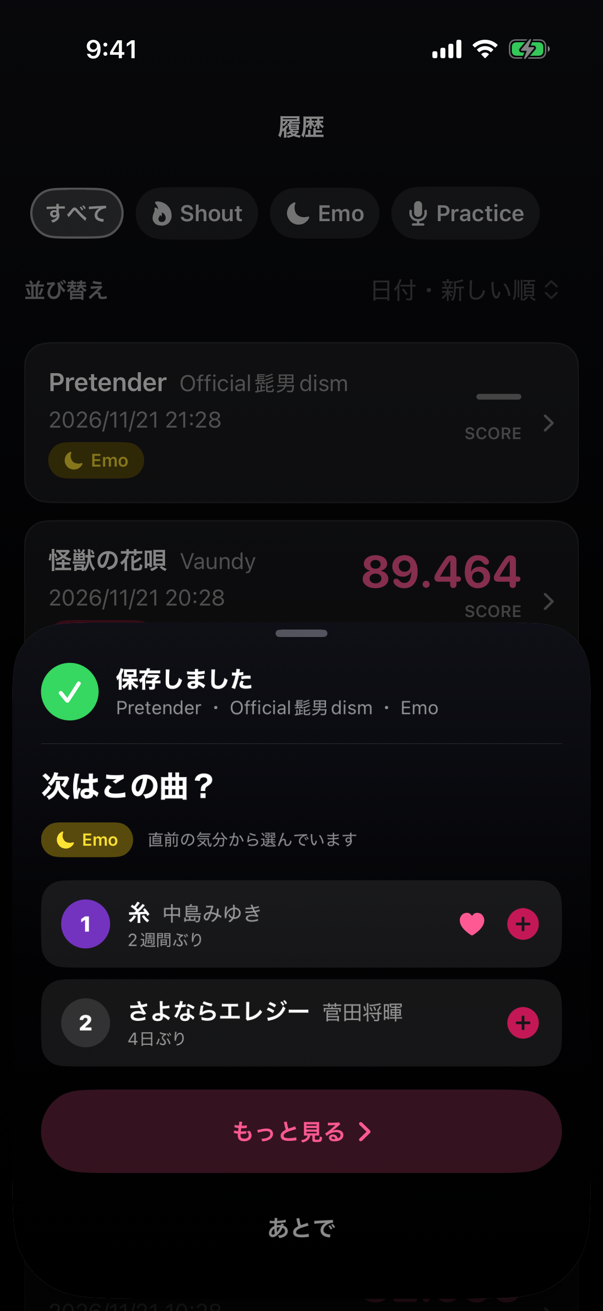
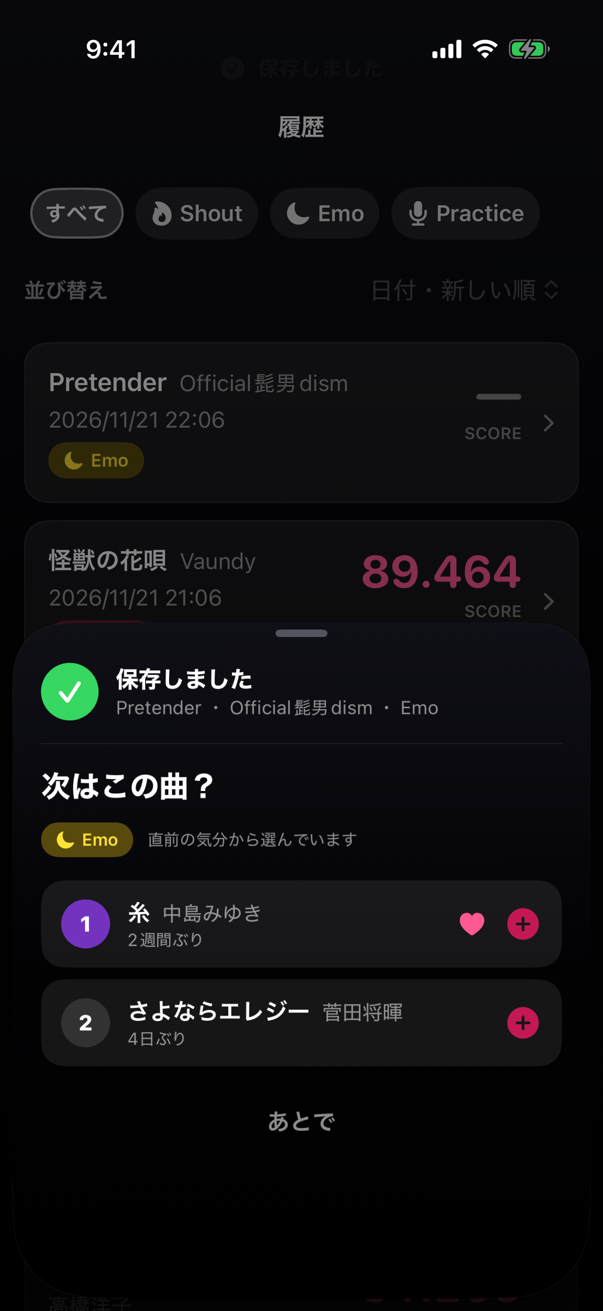
docs: タブを移さないことを ADR と文書に書き、画像を撮り直す

Changed region(s): [[0.0597, 0.8238, 0.9552, 0.9458], [0.2985, 0.4272, 0.3582, 0.4577], [0.2985, 0.3051, 0.3582, 0.3356]]

diff --git a/docs/adr/0070-stay-on-tab-after-save.md b/docs/adr/0070-stay-on-tab-after-save.md
@@ -1,0 +1,58 @@
+# 0070. 保存のあとも、ボタンを押したあとも、アプリが勝手にタブを移さない
+
+- 2026-11-21 提案 ／ 2026-11-21 承認（[0032](0032-move-to-history-after-dismiss.md) を置き換える。[0061](0061-restore-into-empty-device-and-accept-same-backup.md) の「空の画面から設定タブへ移る」も置き換える）
+- 背景：記録を保存すると、記録シートが閉じ終わってから履歴タブへ移っていた（0032）。保存直後のシートの「もっと見る」は選曲タブへ移り（#126）、空の画面の「前の iPhone の記録を取り込む」（Debug・Beta）は設定タブへ移っていた（0061）。WWDC22「Explore navigation design for iOS」は "Never force someone to change tabs automatically"、"Transporting someone to another tab by tapping on an element within a view is jarring and disorienting"、モーダルを閉じたら "the previous state of the app should be preserved" としていて、3 つともこれに反する（#193）
+
+## 比較した案
+
+1. 保存のあと
+- A. 記録を始めたタブのままにし、「保存しました」を短く出す。保存直後のシートは今までどおり出す
+- B. 元のタブのままにし、保存直後のシートに「履歴で見る」を置く
+
+2. 保存直後のシートと「もっと見る」
+- A. 「もっと見る」で選曲画面をシートで出す
+- B. 「もっと見る」は選曲タブで保存したときだけ出し、押したらシートを閉じるだけにする（後ろに、保存した気分で読み直した選曲画面がある）
+- C. 「もっと見る」をなくす
+- D. 選曲タブで保存したときは、保存直後のシートを出さない。ほかのタブでは「もっと見る」なしで出す
+
+3. 空の画面の取り込み（Debug・Beta）
+- A. 設定画面をシートで出す
+- B. ボタンをやめ、「設定から取り込めます」と文で案内する
+- C. 案内をなくす
+- D. その場で Sign in with Apple を出して取り込む
+
+## トレードオフ
+
+- 1-A は、0032 で B を外した理由（保存した記録が履歴に増えるのが見えず、手応えが足りない）を「保存しました」で補う。履歴タブ以外で保存すると、記録が増えたところは見えない
+- 1-B は、「履歴で見る」を押すと別のタブへ運ぶことになり、WWDC の 2 つ目の文に当たる
+- 2-A は、選曲タブと同じ画面が 2 か所にでき、カードを押すと「選曲のシート → 閉じる → 記録シート」とシートが続く
+- 2-B は差分が一番小さい。ただ、選曲タブでは、保存直後のシートの候補（同じ気分の上位 2 曲）が後ろの選曲画面とほぼ同じで、「もっと見る」は後ろを見せるだけになる。後ろにある画面の一部を、モーダルでもう一度見せていることになる
+- 2-C は、#126 で足した導線がなくなる。選曲タブ以外では、もともと選曲画面へ移る以外に使い道がない
+- 2-D は、選曲タブでは後ろの選曲画面がそのまま次の曲の候補になり、モーダルが 1 枚減る。「もっと見る」も要らなくなる。代わりに、選曲タブで次の曲を選ぶと、記録の入口は「提案から」ではなく「選曲画面から」になり、0024 の仮説を入口の数で確かめる見方は弱くなる
+- 3-A は、設定タブと同じ画面が 2 か所にでき、シートを使わない作りのサインインと同意の画面（[0058](0058-backup-consent-and-auto-upload.md)）をシートの中に入れることになる
+- 3-B は、タブを移すのは本人に任せる。`docs/backend_design.md` の FR-5（空の画面から設定へ案内する）は文で満たせる。押せば済んでいたのが、設定タブを自分で開く手間になる
+- 3-C は FR-5 を変えることになる
+- 3-D は、アカウントで記録を引き継ぐアプリの多くと同じ形で、一番使いやすい。代わりに、サインインと取り込みを受け持つ ViewModel とそのテストが要り、設定の ViewModel と手順が重なる
+
+## 選んだ理由
+
+- 1 は A、3 は B。WWDC の「タブを勝手に移さない」に合わせ、差分が一番小さい案にした。3 のその場で取り込む形（D）は使いやすいが、ViewModel とテストが要るので #195 で作る
+- 2 は D。選曲タブでは、保存直後のシートが後ろの選曲画面とほぼ同じ曲を出していて、モーダルで見せる意味がなかった。選曲タブ以外では候補が見える画面がないので、シートを残す
+
+## 決めたこと
+
+- アプリのほうからタブを移さない。ボタンを押したときも、別のタブへ運ばない
+- 保存したら記録シートを閉じ、記録を始めたタブのままにする。閉じ終わったら（`onDismiss`）画面の上に「保存しました」を 2 秒出し、VoiceOver でも読み上げる。保存直後のシートが出るときも出す
+- 保存直後のシートは、選曲タブ以外で保存したときだけ、記録シートが閉じ終わってから 1 秒後に出す（`afterSaveSheetDelay`。今まで「履歴タブへ移ってから 1 秒後」だった起点を、閉じ終わった時点にする）。出さない場合（編集・候補 0 件・読み込みの失敗・ほかのシートを開いた）は 0024・0025 のまま
+- 選曲タブで保存したときは、保存直後のシートを出さない（候補も読まない）。後ろの選曲画面が保存した記録の気分で読み直され、そのまま次の曲の候補になる
+- 「もっと見る」はなくす（#126 で足した、選曲タブへ移る導線）
+- 空の画面の取り込みは、ボタンをやめて「前の iPhone の記録は、設定から取り込めます」と文で出す。出すのは今までどおりアカウントの欄があるビルドだけ（`isRestoreHintVisible`）。その場でサインインして取り込む形（3-D）は #195 で作る
+
+## 見直す条件
+
+- 履歴タブ以外で保存したとき、記録できたか分からないという声が出たとき
+- 履歴・検索タブで保存したあと、ほかの候補も見たいという声が出たとき
+- 選曲タブで保存したあと、次の曲が決まらないという声が出たとき（保存直後のシートを出していたほうが選びやすかった、など）
+- #195 で、空の画面からその場で取り込めるようにしたとき（3 を置き換える）
+
+関連：#193、#195、[0024](0024-recommend-right-after-save.md)、[0025](0025-switch-root-sheet-after-save.md)、[0032](0032-move-to-history-after-dismiss.md)（置き換え）、[0061](0061-restore-into-empty-device-and-accept-same-backup.md)

diff --git a/docs/v1_navigation_songs_recording.md b/docs/v1_navigation_songs_recording.md
@@ -3,7 +3,7 @@
 ## 方針
 
 - **シートは `RootView` に 1 つだけ**置く。`TabView` に `.sheet(item: $sheet, onDismiss:)` を付け、記録シート（`RecordingSheetContainerView`）と保存直後のシート（`AfterSaveRecommendationSheetView`）を切り替える（ADR 0025）。選曲・履歴・検索のどのタブから開いても同じシートを使う。
-- **歌唱記録 UI は `NavigationStack` の push では出さない**。push で `NavigationPath` を空にして pop すると、必ず一度 **下のルートが露出**する。保存後に履歴タブへ切り替えるときの「一瞬チラつき」を避けるため、**シートの dismiss** で閉じる。
+- **歌唱記録 UI は `NavigationStack` の push では出さない**。push で `NavigationPath` を空にして pop すると、必ず一度 **下のルートが露出**する。閉じたときに元の画面がそのまま残るよう、**シートの dismiss** で閉じる。保存のあともタブは移さない（ADR 0070）。
 - 各タブの `NavigationStack` はタブ内に独立して持つ（選曲は `SongsRootView`、履歴は `HistoryListContainerView`、設定・検索は `RootView` の `Tab` 内）。記録シートはどのタブのスタックにも積まない。
 - 選曲タブ（`SongsRootView`）は選曲画面（`SelectionContainerView`）を出す（#126。タイムマシン・マイアンセム・今月の統計は ADR 0038 で消した）。記録を保存するたびに `historyReloadTick` で読み直す。Practice のチップでは「練習中の曲」（最新の記録が Practice で歌い切れた曲）と「歌い切れなかった曲」（最新の記録で歌い切れなかった曲）だけを出す（#131・ADR 0043・0044）。Practice では今日歌った曲も消さずに各セクションのいちばん下に出し、ハート付きを上に出す（ADR 0045）。V1 にあった「インテント / Spotify」のセグメントは撤去した。
 
@@ -34,7 +34,7 @@
 1. `RecordingSheetContentView.attemptSave()` 成功時に、保存した記録の要約（`SavedRecording`）を付けて `onSaved(_:)` を呼ぶ。
 2. `RootView.handleSaved(_:)` で **シートを閉じ**、**`historyReloadTick += 1`**。シートが**閉じ終わってから**（`onDismiss`）`selectedTab = .history`（アニメーションなし）にする。閉じている途中に切り替えると、後ろの画面が急に変わって見えるため（ADR 0032）。
 3. `RecordingSheetContentView` は **`dismiss()`** も呼ぶ（二重の閉じ方だが問題にならない）。
-4. `AfterSaveRecommendationViewModel.prepare(for:)` で候補を読み（Practice で保存したときは練習中の曲を先に、足りなければ歌い切れなかった曲・ADR 0044）、中身が返ったときだけ保存直後のシートを出す。新規の記録で候補が 1 件以上あるときだけで、編集して更新したとき・候補が 0 件のとき・読み込みに失敗したときは出さない（ADR 0024）。出すのは履歴タブへ移ってから 1 秒たってから（`afterSaveSheetDelay`。履歴に記録が増えたのが見えてから出すため・ADR 0032）。中身の読み込みと履歴タブへの移動は、どちらが先に終わってもよい。保存直後のシートの「もっと見る」を押すと、シートを閉じ、閉じ終わってから（`onDismiss`）選曲タブへ移る（`movesToSongsAfterDismiss`）。選曲画面は保存のあとに読み直して直前の記録の気分になるので、保存した記録の気分がそのまま選ばれる（#126）。候補を待っている間に別のシートが開かれた・予約されたとき（保存した直後に＋を押した、など）も出さず、そちらを優先する（ADR 0025）。
+4. `AfterSaveRecommendationViewModel.prepare(for:)` で候補を読み（Practice で保存したときは練習中の曲を先に、足りなければ歌い切れなかった曲・ADR 0044）、中身が返ったときだけ保存直後のシートを出す。新規の記録で候補が 1 件以上あるときだけで、編集して更新したとき・候補が 0 件のとき・読み込みに失敗したときは出さない（ADR 0024）。選曲タブで保存したときは候補を読まず、シートも出さない。後ろの選曲画面が保存した記録の気分で読み直され、そのまま次の曲の候補になるため（ADR 0070）。タブは移さない。記録シートが閉じ終わったら（`onDismiss`）画面の上に「保存しました」を 2 秒出し、その 1 秒後に保存直後のシートを出す（`afterSaveSheetDelay`。保存した記録が画面に増えたのが見えてから出すため・ADR 0070）。中身の読み込みと記録シートを閉じ終わるのは、どちらが先でもよい。候補を待っている間に別のシートが開かれた・予約されたとき（保存した直後に＋を押した、など）も出さず、そちらを優先する（ADR 0025）。
 
 ### `historyReloadTick` が必要な理由
 
@@ -56,15 +56,14 @@
                                                ▼ 成功
                         シート解除 + historyReloadTick += 1
                                                │
-                                               ▼ 閉じ終わってから
-                                           履歴タブへ
+                                               ▼ 閉じ終わってから（タブはそのまま）
+                                    「保存しました」を 2 秒
                                                │
-                                               ▼ 新規で候補があるとき（履歴タブへ移ってから 1 秒後）
+                                               ▼ 選曲タブ以外で、新規で候補があるとき（閉じ終わってから 1 秒後）
                          .sheet ──► AfterSaveRecommendationSheetView
-                                   │              │              │
-                                   ▼ カード       ▼ もっと見る   ▼ あとで
-                     記録シート（曲名＋気分入り）  閉じ終わってから  シート解除
-                                                  選曲タブへ
+                                   │                             │
+                                   ▼ カード                      ▼ あとで
+                     記録シート（曲名＋気分入り）                 シート解除
 ```
 
 ## 関連コード

diff --git a/README.md b/README.md
@@ -16,7 +16,8 @@
   <img src="docs/screenshots/songs.png" alt="選曲画面" width="160">
   <img src="docs/screenshots/practice.png" alt="Practice の練習中の曲と歌い切れなかった曲" width="160">
   <img src="docs/screenshots/recording.png" alt="歌唱記録シート" width="160">
-  <img src="docs/screenshots/after-save.png" alt="保存直後の次の1曲の提案" width="160">
+  <img src="docs/screenshots/saved-on-songs.png" alt="選曲タブで保存したあと（選曲画面が保存した気分に切り替わる）" width="160">
+  <img src="docs/screenshots/after-save.png" alt="履歴・検索タブで保存したあとの、次の1曲の提案" width="160">
   <img src="docs/screenshots/history.png" alt="履歴" width="160">
   <img src="docs/screenshots/track-detail.png" alt="曲詳細" width="160">
   <img src="docs/screenshots/search.png" alt="検索タブ（曲名と歌手名を切り替えて探す。打つ前は最近歌った曲が出る）" width="160">
@@ -58,7 +59,7 @@
 
 本人がオンにしたときだけ、メモ以外の記録を自前のサーバーにバックアップできるよう、サーバーを作っている。記録の正は端末の SwiftData のままで、サーバーにつながらなくても記録と履歴は動く。この機能は App Store に出すビルド（Release）には入れず、Debug と、TestFlight で外部テスターに配る Beta のビルドだけで動く（ADR 0048・0049・0053・0064）。
 
-- 済み：Sign in with Apple でのサインイン・ログアウト・アカウントの削除（Apple のトークンの取り消しを含む）、記録のバックアップ（オンにする前に同意の画面を出し、オンの間はアプリを閉じたときに自動で送る。設定から今すぐ送る・オフにしてサーバーの控えを消すこともできる）、曲も記録もない端末への取り込み（サインインの直後に聞く。記録がない間は設定の行と、履歴・選曲の空の画面の案内からも取り込める。ADR 0061）
+- 済み：Sign in with Apple でのサインイン・ログアウト・アカウントの削除（Apple のトークンの取り消しを含む）、記録のバックアップ（オンにする前に同意の画面を出し、オンの間はアプリを閉じたときに自動で送る。設定から今すぐ送る・オフにしてサーバーの控えを消すこともできる）、曲も記録もない端末への取り込み（サインインの直後に聞く。記録がない間は設定の行から取り込め、履歴・選曲の空の画面でもそれを案内する。ADR 0061・0070）
 - TestFlight の外部テスターに Beta のビルドを配っている（上げる手順は [`docs/app_store/release_steps.md`](docs/app_store/release_steps.md)）
 - これから：Apple Music の曲の候補（MusicKit）
 
@@ -77,7 +78,7 @@ open Karaoke_support/Karaoke_support.xcodeproj
 # Cmd + R でビルド & 実行（iPhone シミュレータ iOS 26+）
 ```
 
-起動後: 右下の「＋」ボタン → 曲名と歌手名を入力（どちらから打っても、前に歌った曲が「曲名　歌手名」の候補で出て、押すと両方入る。歌手名の欄では歌手名だけの候補も上に出て、初めて歌う曲でも歌手名を選べる）→ スコア（任意）→ Intent → 歌い切れた？ → また歌いたいならハート → 保存。保存すると履歴タブに移り、同じ気分で前に歌った曲（今日まだ歌っておらず、最新の記録で歌い切れたもの）があれば「次はこの曲？」で次の 1 曲の候補が出る。ハートを付けた曲は上に出る。「もっと見る」で選曲画面に移り、気分を切り替えて候補を見られる（選曲タブと同じ画面）。Practice を選ぶと、「練習中の曲」（Practice で歌い切れた曲）と「歌い切れなかった曲」が分かれて並ぶ（今日歌った曲も消えずに下へ回り、ハート付きが上に来る。Practice で保存したときの提案は練習中の曲が先）。右下の虫眼鏡で検索タブを開くとすぐ打て、打つ前は最近歌った曲が 5 件出る。曲名で探して ＋ の行を押すと、その曲で記録シートが開く
+起動後: 右下の「＋」ボタン → 曲名と歌手名を入力（どちらから打っても、前に歌った曲が「曲名　歌手名」の候補で出て、押すと両方入る。歌手名の欄では歌手名だけの候補も上に出て、初めて歌う曲でも歌手名を選べる）→ スコア（任意）→ Intent → 歌い切れた？ → また歌いたいならハート → 保存。保存すると、タブはそのまま「保存しました」が出る。選曲タブでは、選曲画面が保存した気分に切り替わり、そのまま次の 1 曲を選べる。履歴・検索タブでは、同じ気分で前に歌った曲（今日まだ歌っておらず、最新の記録で歌い切れたもの）があれば「次はこの曲？」で次の 1 曲の候補が出る。ハートを付けた曲は上に出る。Practice を選ぶと、「練習中の曲」（Practice で歌い切れた曲）と「歌い切れなかった曲」が分かれて並ぶ（今日歌った曲も消えずに下へ回り、ハート付きが上に来る。Practice で保存したときの提案は練習中の曲が先）。右下の虫眼鏡で検索タブを開くとすぐ打て、打つ前は最近歌った曲が 5 件出る。曲名で探して ＋ の行を押すと、その曲で記録シートが開く
 
 Debug か Beta のビルドでサーバーのアカウント（開発中）を試すときは、`Karaoke_support/Config/Local.xcconfig.example` を `Local.xcconfig` という名前で写し、staging のホスト名を入れる。このファイルはコミットしない。なくても、アカウントの欄が出ないだけで、ほかは動く（ADR 0055）
 

diff --git a/docs/adr/README.md b/docs/adr/README.md
@@ -37,7 +37,7 @@
 | [0029](0029-recompute-track-stats-without-cache.md) | 提案に使う曲ごとの集計はキャッシュせず、保存のたびに全部の記録から作り直す | 承認 |
 | [0030](0030-delay-after-save-sheet.md) | 保存直後のシートは、保存してから 1 秒たってから出す | 置き換え済み（→ 0032） |
 | [0031](0031-environment-values-by-default-identity.md) | 環境に置くものは、初期値に同一性があるかで書き方を分ける | 承認 |
-| [0032](0032-move-to-history-after-dismiss.md) | 保存したら、記録シートが閉じ終わってから履歴タブへ移り、その 1 秒後に保存直後のシートを出す | 承認 |
+| [0032](0032-move-to-history-after-dismiss.md) | 保存したら、記録シートが閉じ終わってから履歴タブへ移り、その 1 秒後に保存直後のシートを出す | 置き換え済み（→ 0070） |
 | [0033](0033-show-error-when-store-cannot-open.md) | 保存先の DB を開けなかったときは、メモリ上の DB で起動せず、エラー画面で止める | 承認 |
 | [0034](0034-record-source-as-optional-enum.md) | 記録の入口は空を許す enum で持ち、空は手で付けた記録として読む | 承認 |
 | [0035](0035-write-docs-in-japanese.md) | 文書は AI 向けのものも含めて日本語で書き、識別子・コマンド・ファイル名は英語のままにする | 承認 |
@@ -66,7 +66,7 @@
 | [0058](0058-backup-consent-and-auto-upload.md) | バックアップは本人がオンにしたときだけ、裏に回ったときに版の番号つきで送り、オフにしたら消す | 承認（前に戻ったときに送り直す失敗と 401 の扱いは置き換え済み → 0059） |
 | [0059](0059-foreground-retry-and-unauthorized-backup.md) | 前に戻ったときは、やり直して結果が変わりうる失敗だけを送り直し、401 では失敗の理由を置かずに状態を全部消す | 承認 |
 | [0060](0060-backup-on-off-without-toggle.md) | バックアップのオン・オフはスイッチにせず、オンにする行とオフにするボタンで行う | 承認（オフのときの行は置き換え済み → 0062） |
-| [0061](0061-restore-into-empty-device-and-accept-same-backup.md) | 取り込みは空の端末でサインインの直後に聞き、同じ中身の送り直しは成功として扱う | 承認（取り込まないボタンの言葉は置き換え済み → 0062） |
+| [0061](0061-restore-into-empty-device-and-accept-same-backup.md) | 取り込みは空の端末でサインインの直後に聞き、同じ中身の送り直しは成功として扱う | 承認（取り込まないボタンの言葉は置き換え済み → 0062、空の画面から設定タブへ移るのは置き換え済み → 0070） |
 | [0062](0062-show-backup-state-row-and-restore-alert.md) | バックアップの欄に「バックアップ　オン／オフ」の行を置き、サインイン直後の取り込みは alert で「取り込む」「キャンセル」と聞く | 承認 |
 | [0063](0063-rate-limit-by-client-ip-and-health-without-db.md) | レート制限は Cloud Run が足した相手の IP ごとにトークンバケットで数え、`/health` は DB を見ない | 承認 |
 | [0064](0064-beta-build-configuration-and-privacy-manifest.md) | Beta の構成は Release を写して xcconfig と専用のスキームで作り、Privacy Manifest は構成ごとに外して差し替える | 承認（プライバシーポリシーの欄は置き換え済み → 0068） |
@@ -74,6 +74,8 @@
 | [0066](0066-search-tab-name-artist-scope.md) | 検索タブは履歴と同じチップで、曲名と歌手名のどちらで探すかを選ぶ | 承認 |
 | [0067](0067-backup-schema-version-and-artist-name.md) | バックアップに項目を足すときは schemaVersion を上げ、アプリは前の版も読み、サーバーは知っている版の範囲だけを受け付ける | 承認 |
 | [0068](0068-settings-sections-by-role.md) | 設定の欄は役割ごとに並べ、サポートとプライバシーポリシーは「このアプリについて」にまとめる | 承認 |
+| [0069](0069-show-row-tap-affordance.md) | 押せる行には、押すと何が起きるかの印を出す（画面へ進む行は ›、記録シートが開く行は ＋） | 承認 |
+| [0070](0070-stay-on-tab-after-save.md) | 保存のあとも、ボタンを押したあとも、アプリが勝手にタブを移さない | 承認 |
 
 ## 書き方
 

diff --git a/docs/architecture.md b/docs/architecture.md
@@ -86,7 +86,7 @@ flowchart TB
     end
 
     subgraph S4["画面遷移"]
-        K["シートを閉じ、閉じ終わってから履歴タブへ移動<br>（新規で候補があれば<br>1 秒後に保存直後のシートを出す）"]
+        K["シートを閉じ、タブはそのまま<br>「保存しました」を出す<br>（選曲タブ以外で、新規で候補があれば<br>1 秒後に保存直後のシートを出す）"]
     end
 
     C --> D
@@ -232,13 +232,12 @@ flowchart TD
     S1 --> IN["曲名・歌手名（どちらからでも候補で両方入る）→ スコア（任意）→ Intent → 歌い切れた？ → メモ（任意）→ ハート（任意）→ 保存"]
     S2 --> IN
     IN --> SAVE["二重送信を防いで冪等に保存"]
-    SAVE --> CLOSE["シートが閉じ終わってから履歴タブへ"]
+    SAVE --> CLOSE["シートを閉じ、タブはそのまま「保存しました」"]
     CLOSE --> Q{"同じ気分で前に歌った曲<br>（今日まだ歌っておらず、挑戦中ではないもの）がある？<br>Practice で保存したときは練習中の曲、足りなければ歌い切れなかった曲"}
     Q -->|ある| AS["1 秒後に保存直後のシート<br>「次はこの曲？」最大 2 曲"]
-    Q -->|ない| END["履歴に記録が増えて終わり"]
+    Q -->|ない| END["記録が増えて終わり"]
     AS -->|カードを押す| S4["記録シート（候補の曲と直前の気分入り）<br>曲を変えずに保存すると、提案からの記録になる"]
     AS -->|あとで| END
-    AS -->|もっと見る| SEL
     S4 --> IN
     S5 --> IN
 
@@ -248,4 +247,4 @@ flowchart TD
 
 設定のバックアップ（Debug と Beta のビルドだけ）は、サインインしているときだけ欄を出す。欄には「バックアップ」の行でオンかオフかを出す。オフのときはその行（右に ›）から、設定の `NavigationStack` の中で同意の画面へ進み、「オンにする」で前に戻って 1 回送る。オンのときは「バックアップをオフにする」のボタンで、サーバーの件数を見せて確認してから消す。スイッチは使わない（ADR 0060・0062）。どちらもシートを使わないので、`RootView` の 1 つのシートとはぶつからない（#161、ADR 0058）。アプリが裏に回ったとき・前に戻ったときは、`KaraokeSupportApp` が `scenePhase` の変化を `BackgroundBackupTrigger` に渡して送る。送り終えるたびに `backupStatusTick` が増え、設定の欄はそれで状態を読み直す。
 
-取り込み（ADR 0061）は、曲も記録もない端末でだけ出す。設定でサインインし終えると（`AccountSectionViewModel.completedSignInCount`）、サーバーに控えがあれば alert で「取り込む」か「キャンセル」かを 1 回聞く（ADR 0062）。キャンセルしても、端末が空の間はバックアップの欄に「バックアップから取り込む」の行が残り、押すと alert で確かめてから取り込む。履歴と選曲の空の画面には「前の iPhone の記録を取り込む」を置き、`navigateToSettings` で設定タブへ移る（アカウントの欄があるビルドだけ。ないときは nil で出さない）。取り込めたら `notifyRecordsChanged` で履歴と選曲を読み直す。
+取り込み（ADR 0061）は、曲も記録もない端末でだけ出す。設定でサインインし終えると（`AccountSectionViewModel.completedSignInCount`）、サーバーに控えがあれば alert で「取り込む」か「キャンセル」かを 1 回聞く（ADR 0062）。キャンセルしても、端末が空の間はバックアップの欄に「バックアップから取り込む」の行が残り、押すと alert で確かめてから取り込む。履歴と選曲の空の画面には「前の iPhone の記録は、設定から取り込めます」と文で出す。タブは移さない（`isRestoreHintVisible`。アカウントの欄があるビルドだけ・ADR 0070）。取り込めたら `notifyRecordsChanged` で履歴と選曲を読み直す。

diff --git a/docs/backend_design.md b/docs/backend_design.md
@@ -227,7 +227,7 @@ sequenceDiagram
 ### 取り込み
 
 1. 設定でサインインし終えたら、`fetchRestorableBackup()` を呼ぶ。端末に曲か記録があれば、サーバーには問い合わせずに nil を返す。空なら `GET /v1/backup/summary` で件数と日時を読む
-2. バックアップがあれば、alert で「取り込む」か「キャンセル」かを 1 回聞く（ADR 0062）。キャンセルしても、端末が空の間は設定のバックアップの欄に「バックアップから取り込む」の行を残す。履歴と選曲の空の画面の「前の iPhone の記録を取り込む」は、設定タブへ移る
+2. バックアップがあれば、alert で「取り込む」か「キャンセル」かを 1 回聞く（ADR 0062）。キャンセルしても、端末が空の間は設定のバックアップの欄に「バックアップから取り込む」の行を残す。履歴と選曲の空の画面では、設定から取り込めることを文で案内する（タブは移さない・ADR 0070）
 3. `restoreAll()`：送信・削除と同じ順番待ちで動く。`GET /v1/backup` → `schemaVersion` を確かめる（1 から今の版までなら読み、前の版にない項目は空にする。新しい値なら中身を読まずに断る。ADR 0067）→ 値を確かめる（曲名は空でない、曲名と歌手名の組は重ならない（歌手名が空どうしも同じとみなす）、id は重ならない、記録の曲がある、点数は 0〜100）→ 書く直前に端末が空かをもう一度確かめる → SwiftData に全部入れて 1 回だけ保存する（`SwiftDataBackupSnapshotWriter`。失敗したら `rollback()` で何も残さない）。UUID は元のまま使い、`singCount` は記録の件数から数え、メモは空。読んでいる途中にサインアウトされたら何も書かない
 4. 取り込めたら、そのバックアップの版の番号を `UserDefaults` に置き、その後に送るときに 412 にならないようにする。バックアップはオフのまま
 5. `notifyRecordsChanged`（`historyReloadTick`）で履歴と選曲を読み直す
